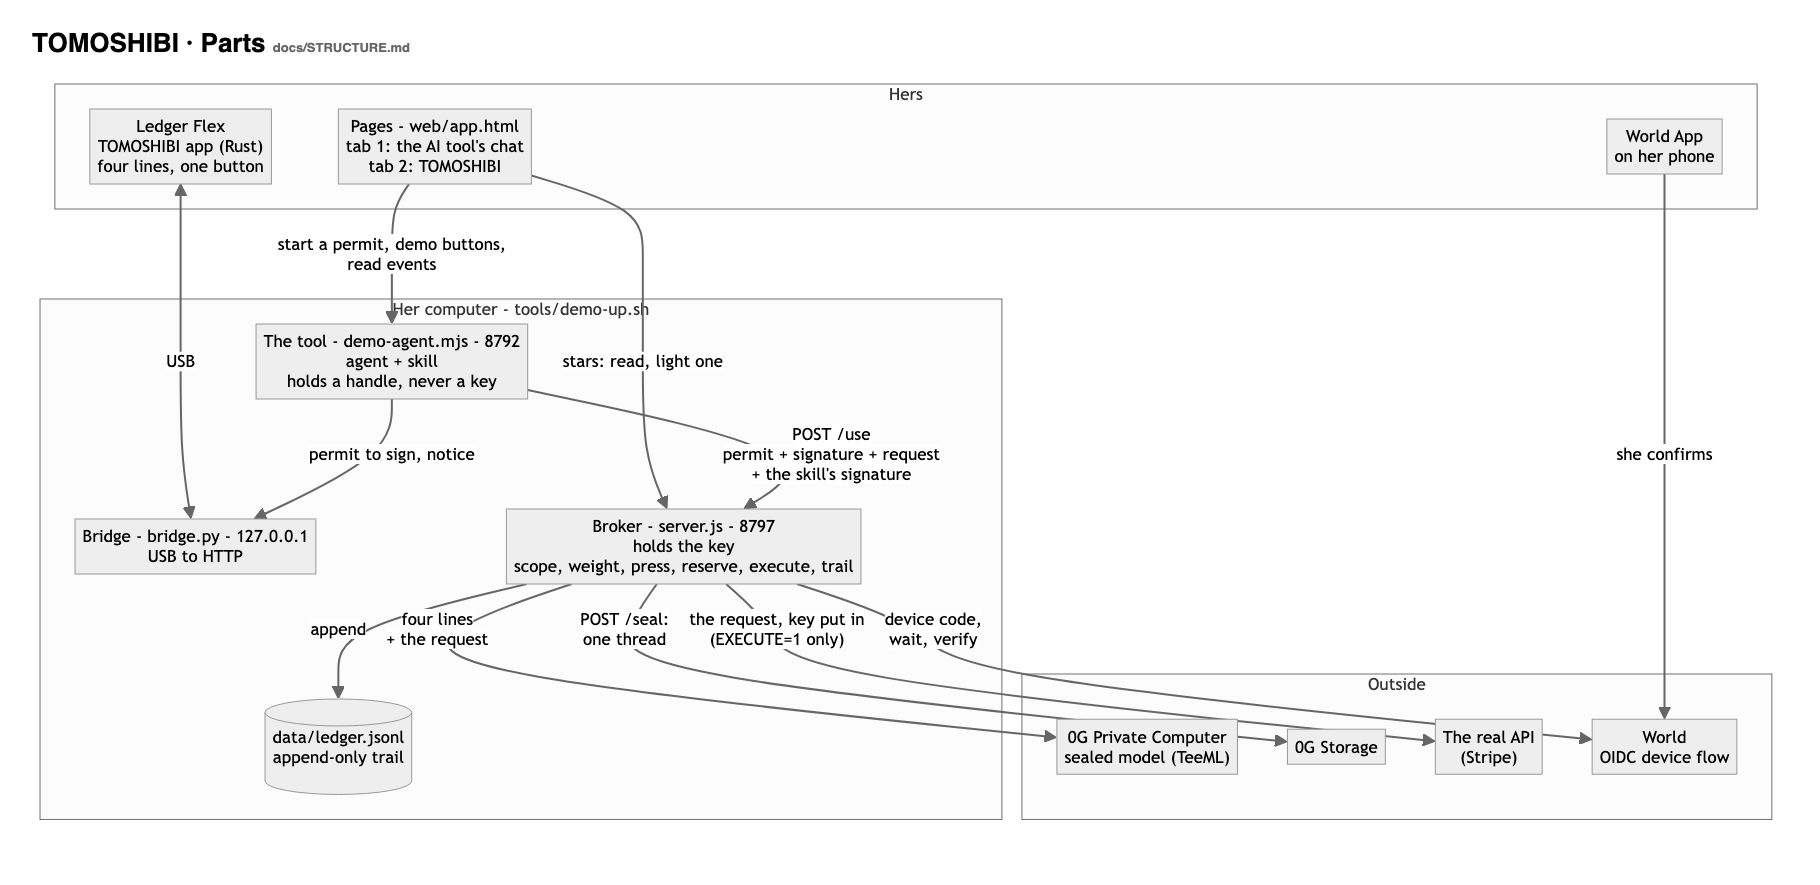
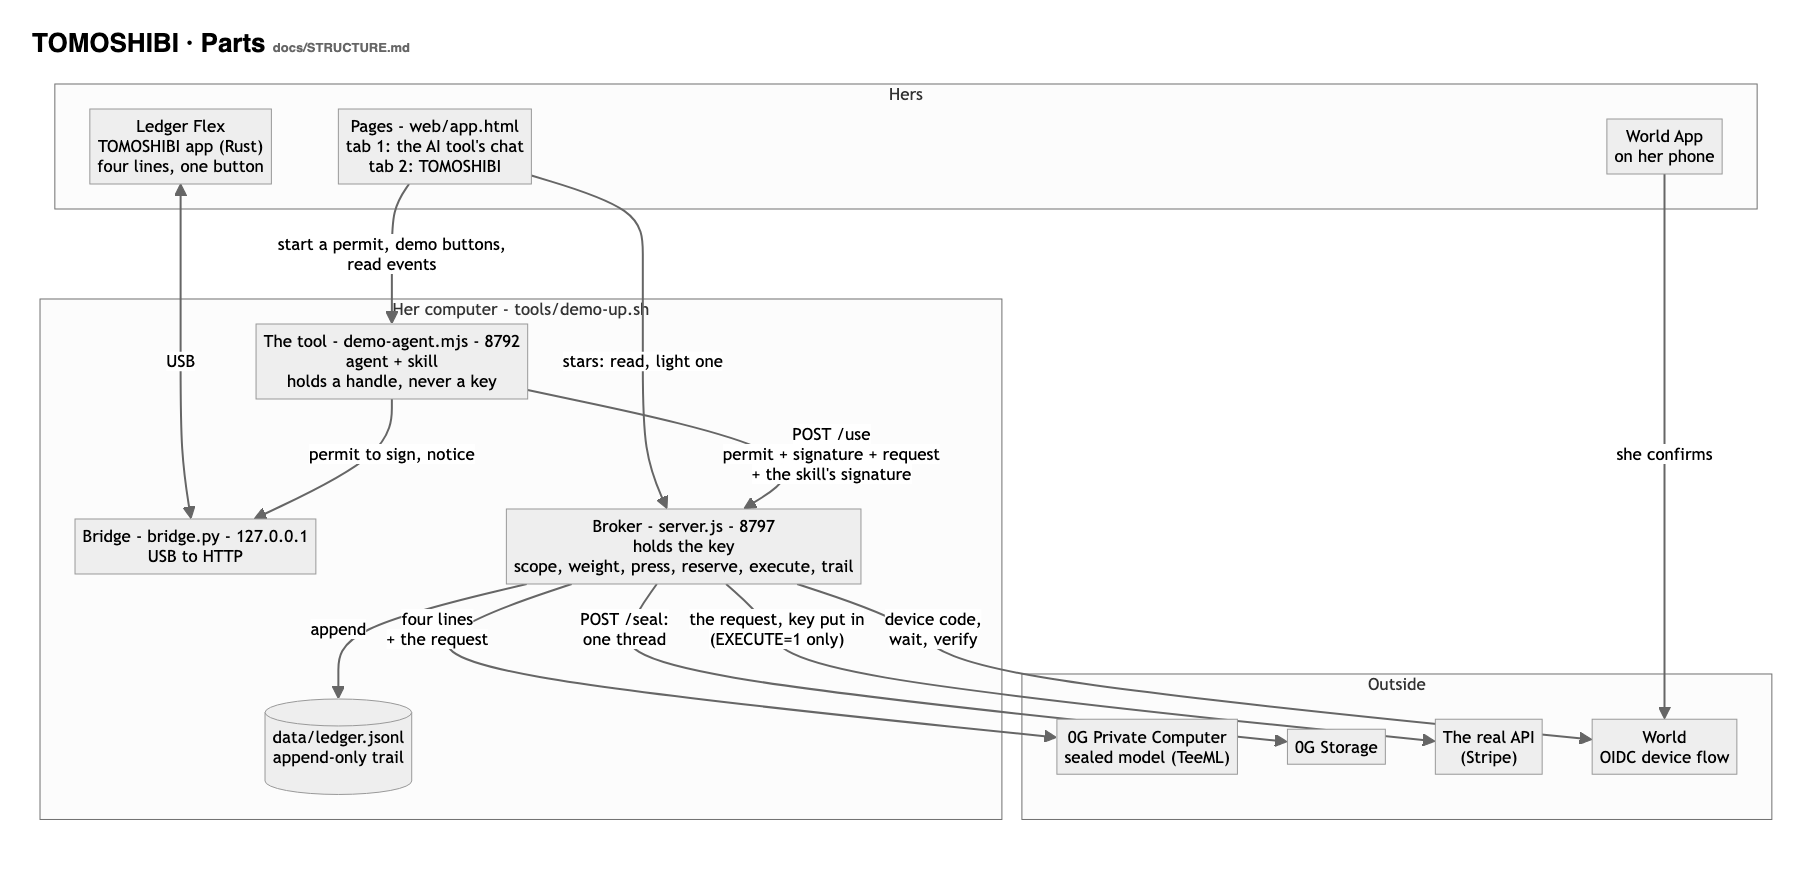
docs/STRUCTURE.md: where the Broker is, what each part is made of, where 0G is used
Three figures and three tables, read off the code: the Broker on the filming laptop and in the
hosted copy; languages, libraries, state and what is stubbed; the two places 0G is called
(Private Computer in weigh.js on every in-scope request, Storage in episode.js on /seal).
The record page says star, not light.

diff --git a/web/trace.js b/web/trace.js
@@ -13,7 +13,7 @@ const short = (h, n = 10) => (typeof h === 'string' && h.length > 2 * n + 2 ? `$
 // How each decision reads to a person. The tiers come from the Broker in Japanese.
 const TITLE = {
   ALLOWED: 'Let through', DENIED: 'Stopped', STOPPED: 'Stopped, on purpose', NEEDS_PRESS: 'Waiting for a press on the Ledger',
-  SEALED: 'Written to 0G Storage', STAR: 'A light was lit', VOUCH_DENIED: 'No light was lit',
+  SEALED: 'Written to 0G Storage', STAR: 'A star was lit', VOUCH_DENIED: 'No star was lit',
 }
 const TIER = { 'ふだん': 'routine', '大事': 'significant', '決定的': 'decisive' }
 const REASON = {

diff --git a/docs/STRUCTURE.md b/docs/STRUCTURE.md
@@ -4,7 +4,7 @@ Three figures of the same system, so that the pages, the Broker and the pitch de
 
 Written from [`HOW-IT-RUNS.md`](HOW-IT-RUNS.md) and the code. It adds what that page leaves out:
 the pages a person sees (`web/app.html`) and how they reach the rest. About the Broker, if this
-page disagrees with `HOW-IT-RUNS.md`, that page is right. Section 5 lists where the branch
+page disagrees with `HOW-IT-RUNS.md`, that page is right. Section 6 lists where the branch
 `minta/story` is different from it today.
 
 The figures are also kept as pictures in [`figures/`](figures/), for the deck.
@@ -75,9 +75,99 @@ flowchart TB
 - **While filming there is no real key and no real call**: `EXECUTE=0`, `SECRETS` unset. The *Custody* screen
   sends and stores nothing.
 - The Broker without 0G (8798, to show `STOPPED`) and the static file server (8790) are left out of the figure.
-- A hosted copy exists on the branch only. See section 5.
+- Where each of these runs, what it is made of, and where 0G is used: section 3.
 
-## 3. Functions
+## 3. Where things run, and what they are made of
+
+### 3.1 Where the Broker is
+
+The Broker is one small program, `broker/src/server.js`. It is not a contract and not a cloud service.
+
+```mermaid
+flowchart TB
+  subgraph AIR["Filming - one laptop - tools/demo-up.sh"]
+    direction LR
+    A1["Pages<br/>static files, 8790"]
+    A2["The tool<br/>8792"]
+    A3["BROKER<br/>8797<br/>data/ledger.jsonl"]
+    A4["Broker without 0G<br/>8798, to show STOPPED"]
+    A5["Bridge<br/>127.0.0.1"]
+    A6["Ledger Flex"]
+    A1 --> A2
+    A2 --> A3
+    A2 --> A4
+    A2 --> A5
+    A5 -- "USB" --> A6
+  end
+  subgraph HOSTED["Hosted copy - to try the pages from any device - tools/hosted-start.sh"]
+    direction LR
+    H1["Pages<br/>GitHub Pages"]
+    subgraph BOX["One container"]
+      direction LR
+      H2["The tool<br/>the only public port"]
+      H3["BROKER<br/>8797, inside only<br/>data/ledger.jsonl"]
+    end
+    H4["Ledger Flex<br/>opened by the page"]
+    H1 --> H2
+    H2 --> H3
+    H1 -- "WebHID" --> H4
+  end
+  subgraph LATER["Design, not built"]
+    T1["BROKER in a TEE<br/>away from the agent (A2)"]
+  end
+```
+
+| Where | How it is started | Address | Its state | Who can reach it |
+|---|---|---|---|---|
+| **Filming laptop** | `tools/demo-up.sh` → `node broker/src/server.js` | port 8797 (a second one on 8798 that cannot reach 0G) | `broker/data/ledger.jsonl` on that laptop | The tool on the same machine. The pages, for stars and the record page. It listens on every interface of the laptop, not only `127.0.0.1`. |
+| **Hosted copy** | `tools/hosted-start.sh`, inside one container (`Dockerfile`) | 8797 inside the container, not published | `data/ledger.jsonl` inside the container. It is gone when the free instance sleeps. | Only the tool beside it. From outside, the tool passes on reads and the two World calls (`/vouch/start`, `/vouch/finish`), nothing else. |
+| **Design** | not built | a TEE, away from the agent | | On a laptop where the agent has a shell, the agent can read the Broker's environment. The README says so (A2). |
+
+### 3.2 What each part is made of
+
+| Part | Language, libraries | Size | Where its state is | Real, or stubbed while filming |
+|---|---|---|---|---|
+| **Broker** `broker/src/` | Node.js, plain `node:http`. No framework, no database. `viem` (EIP-712 signature check, hashes), `jose` (World id token), `ethers` + `@0gfoundation/0g-storage-ts-sdk` (0G Storage). | about 990 lines in 13 files | One append-only file, `data/ledger.jsonl`, re-read at start. Counts and stars are derived from it in memory. | Scope check, 0G weighing, press rule, trail, World: **real**. The call to the real API: **stub** (`EXECUTE=0`, `SECRETS` unset), so no real key exists anywhere. |
+| **The tool** `broker/demo-agent.mjs` | Node.js. A scripted agent called `billing-assistant` with four fixed requests. It signs every request with its own skill key. | 339 lines | In memory: the signed permit and the list of events. | The requests are scripted. Everything it asks the Broker and the Ledger is real. |
+| **Bridge** `bridge/bridge.py` | Python. Speaks the Ledger's USB protocol on one side and HTTP on the other (`/permit`, `/notice`, `/health`). | 324 lines | None | Real |
+| **Ledger app** `ledger-app/` | Rust, on a Ledger Flex. Shows the four lines and signs the permit (EIP-712) after a long press. | | The device's own key | Real, on a development device with no funds |
+| **Pages** `web/` | Static HTML, CSS and JavaScript. No build step. `app.html` + `flow.js`. | `flow.js` 592 lines | The browser only | Real when a tool answers. Otherwise a recorded replay, marked as a preview. |
+
+### 3.3 Where 0G is used
+
+Two places, both inside the Broker. Nothing else talks to 0G.
+
+```mermaid
+flowchart LR
+  U["POST /use"] --> S{"scope check<br/>scope.js"}
+  S -- "outside" --> DN["DENIED<br/>0G is not asked"]
+  S -- "inside" --> WZ["weigh()<br/>weigh.js"]
+  WZ == "four lines + method, URL, body<br/>never the key" ==> ZC[["0G PRIVATE COMPUTER<br/>sealed model (TeeML)<br/>router-api.0g.ai/v1"]]
+  ZC == "weight + reason + request id" ==> WZ
+  WZ -- "no answer" --> ST["STOPPED"]
+  WZ -- "heavier" --> NP["NEEDS_PRESS"]
+  WZ -- "routine" --> AL["reserve, execute<br/>ALLOWED"]
+  SE["POST /seal"] --> EP["store()<br/>episode.js"]
+  EP == "one thread of the trail<br/>no keys, no bodies" ==> ZS[["0G STORAGE<br/>Galileo testnet"]]
+  ZS == "root hash + transaction" ==> EP
+  EP --> SL["SEALED<br/>appended to the trail"]
+```
+
+| | **1. 0G Private Computer** | **2. 0G Storage** |
+|---|---|---|
+| What for | To decide the weight of a request: `routine`, `significant` or `decisive`. This is what decides whether her Ledger is woken up. | To keep one thread of the trail where it cannot be quietly changed. |
+| Code | `broker/src/weigh.js`, called from `use()` in `server.js` | `broker/src/episode.js`, called from `seal()` in `server.js` |
+| When | Once for every request that is inside the scope, and once more for the same request after a press. Never for a request the scope check refused. | Only when someone calls `POST /seal` with a thread. |
+| How | `POST {ZG_ENDPOINT}/chat/completions` with `ZG_API_KEY`. Model `ZG_MODEL` (TeeML), temperature 0, reasoning off. | `Indexer.upload()` from the 0G Storage SDK, paid from the wallet in `ZG_PRIVATE_KEY`, on the Galileo testnet. |
+| What is sent | The four lines of the permit, the method and URL, and the body (cut at 4,000 characters). **Never the key.** | The records of that thread as JSON lines. **No keys and no bodies.** |
+| What comes back, and where it goes | The weight and a short reason, the 0G request id, the time taken, the token count and the `x-0g-e2ee` header. All of it is written into the trail record as `zg{…}`. | The root hash and the transaction. Appended to the trail as `SEALED` with `storage{…}`. If it was not stored, the record says so and why. |
+| If 0G does not answer | `STOPPED`. No default, and no rule in its place. | `SEALED` with `uploaded: false` and the reason. |
+| Who triggers it today | Every request from the tool, so every button in the app except a refused one. | `broker/demo.mjs` and `broker/record-ui.mjs` only. **The app and the tool do not call it**, and the hosted copy has no wallet key. |
+
+Also from 0G: the Broker can read the remaining credits (`GET /zg/balance`), and the permit's EIP-712 domain
+uses chain id 16602. Neither is a call on the request path.
+
+## 4. Functions
 
 The four parts of the README, the six functions of the journey, and the code behind each.
 
@@ -123,9 +213,9 @@ flowchart LR
 | **Trail** | Every request, allowed or refused, is appended with its reason. A thread can be sealed into 0G Storage. | `store.js`, `episode.js` | 0G Storage | `ALLOWED`, `DENIED`, `NEEDS_PRESS`, `STOPPED`, `SEALED` in one file | `TRAIL` (tab) | You can say what was stopped, and whose code tried it. |
 | **Flame** | A star on one version. Only the owner of a permit that was used can light it, confirmed once through World. Stars are counted per version. | `owner.js`, `world.js` | World | `STAR`, or `VOUCH_DENIED`: `NOT_OWNER`, `NOT_USED`, `human_denied`, `proof_expired`, `BAD_ID_TOKEN`, `ALREADY_VOUCHED` | `FLAME` (tab) | You choose by whose star it is, not by how many. |
 
-## 4. Sequences
+## 5. Sequences
 
-### 4.1 Once: the key, then the permit (Monday)
+### 5.1 Once: the key, then the permit (Monday)
 
 ```mermaid
 sequenceDiagram
@@ -157,7 +247,7 @@ sequenceDiagram
 
 The route is still called `/lend` in the tool's code. Nothing a person reads says so.
 
-### 4.2 One request (every time)
+### 5.2 One request (every time)
 
 ```mermaid
 sequenceDiagram
@@ -196,7 +286,7 @@ sequenceDiagram
 - While `EXECUTE=0` the request to the real API is a stub.
 - After a `DENIED`, the tool asks the bridge to show a notice on her Ledger (`POST /notice`). Nobody has to tap.
 
-### 4.3 A press (Wednesday)
+### 5.3 A press (Wednesday)
 
 ```mermaid
 sequenceDiagram
@@ -232,7 +322,7 @@ sequenceDiagram
   end
 ```
 
-### 4.4 A star (Friday)
+### 5.4 A star (Friday)
 
 ```mermaid
 sequenceDiagram
@@ -273,7 +363,7 @@ sequenceDiagram
 Her wallet address is never written into the star. When the version changes, the stars of the old version are
 simply not counted any more.
 
-## 5. Where the branch `minta/story` differs from `HOW-IT-RUNS.md`
+## 6. Where the branch `minta/story` differs from `HOW-IT-RUNS.md`
 
 To settle between us. Each row is a fact about the branch, not a proposal.
 
